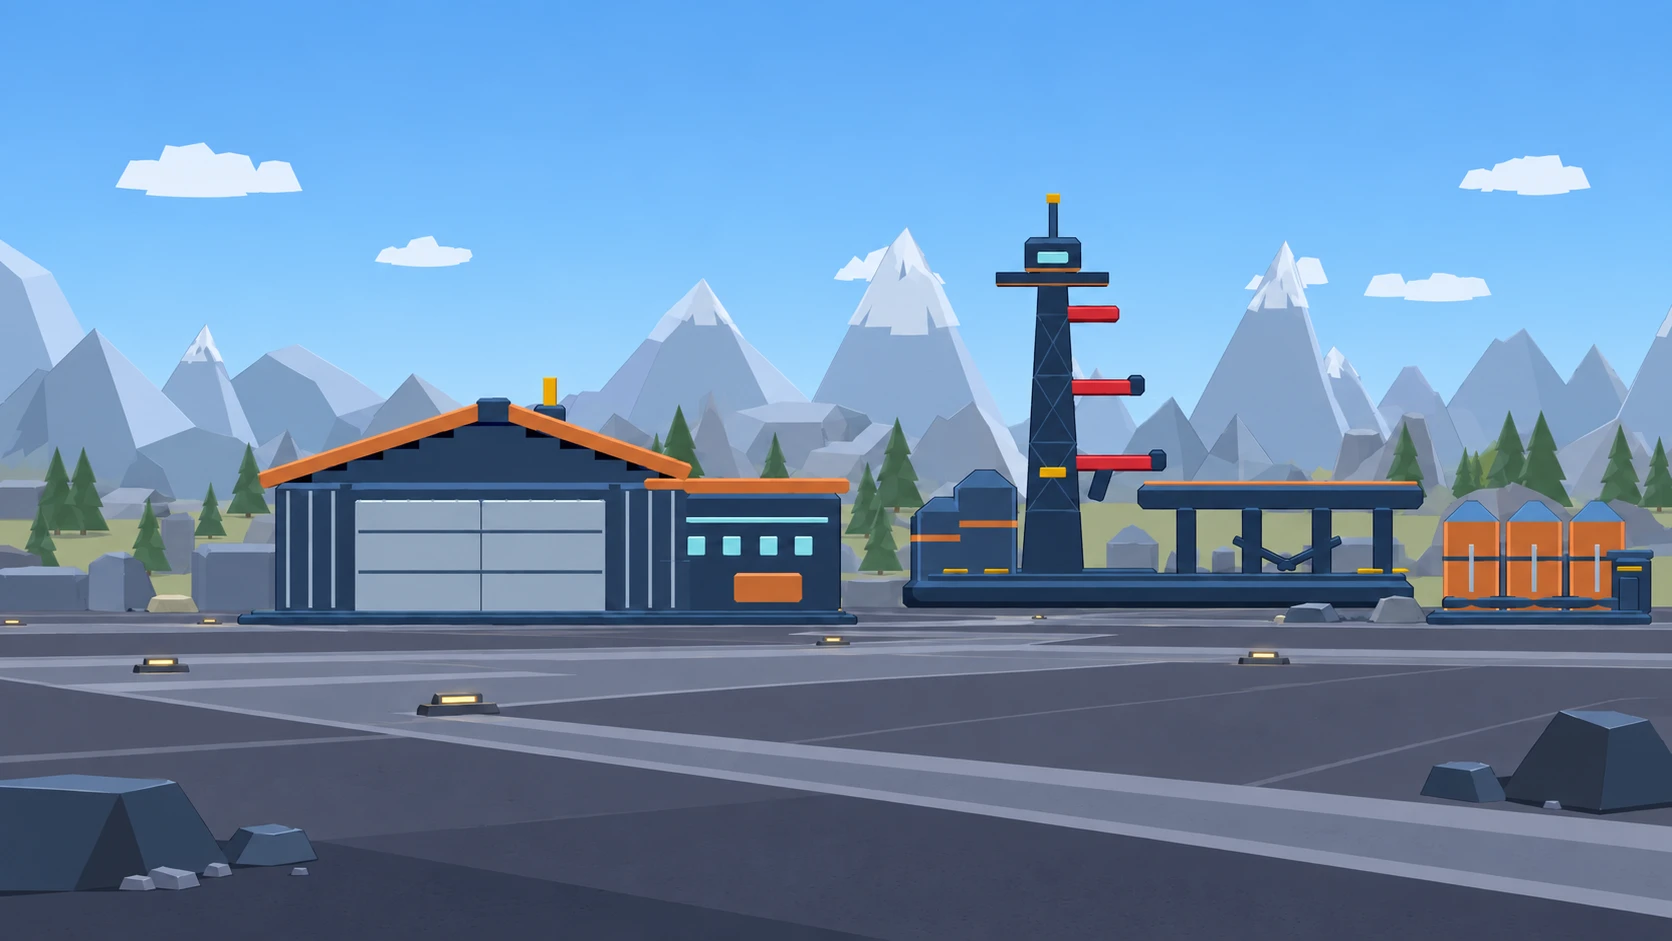
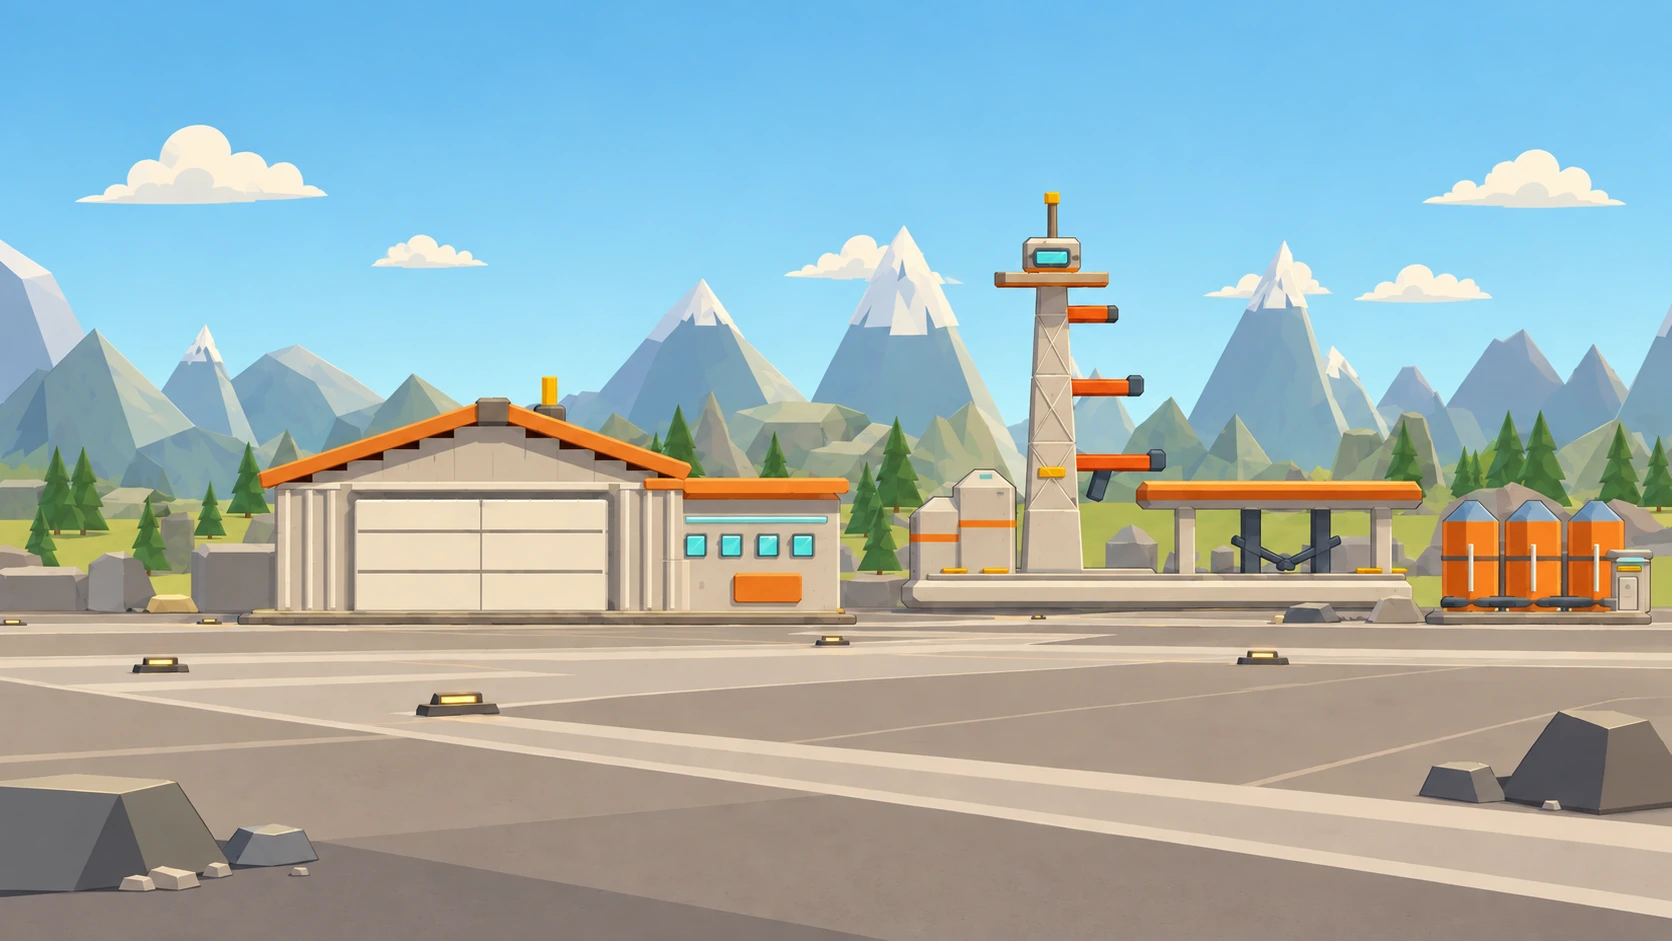
🚀🐺 ↝ [SSL-329]: Rebuild Instrument Hub control desk

diff --git a/web/components/game/screens/DownlinkControlDesk.module.css b/web/components/game/screens/DownlinkControlDesk.module.css
@@ -10,28 +10,28 @@
   grid-template-rows: minmax(0, 1fr) auto;
   overflow: hidden;
   padding: 12px 16px 16px;
-  color: var(--ln-text);
-  border: 1px solid var(--ln-hairline-strong);
+  color: var(--ln-blueprint-ink);
+  border: 1px solid var(--ln-blueprint-line-strong);
   border-radius: 4px 4px 12px 12px;
-  background: var(--ln-panel);
-  box-shadow: inset 0 2px 0 color-mix(in srgb, var(--ln-text) 7%, transparent), 0 16px 24px color-mix(in srgb, var(--ln-void) 74%, transparent);
+  background: var(--ln-blueprint-paper-2);
+  box-shadow: inset 0 2px 0 var(--ln-blueprint-paper), 0 16px 24px color-mix(in srgb, var(--ln-purple-depth) 74%, transparent);
 }
 
 .upperDeck { min-height: 0; display: grid; grid-template-columns: minmax(168px, 22%) minmax(0, 1fr); gap: 12px; }
-.packetRack { min-height: 0; display: flex; flex-direction: column; padding: 12px; border: 1px solid var(--ln-hairline); border-radius: 6px; background: var(--ln-void); }
-.rackHead { display: flex; align-items: center; justify-content: space-between; padding-bottom: 8px; border-bottom: 1px solid var(--ln-divider); color: var(--ln-cyan); font: 800 10px/1 var(--ln-font-display); letter-spacing: .14em; }
+.packetRack { min-height: 0; display: flex; flex-direction: column; padding: 12px; border: 1px solid var(--ln-blueprint-line-strong); border-radius: 6px; background: var(--ln-blueprint-paper); }
+.rackHead { display: flex; align-items: center; justify-content: space-between; padding-bottom: 8px; border-bottom: 1px solid var(--ln-blueprint-line-strong); color: var(--ln-blueprint-blue); font: 800 10px/1 var(--ln-font-display); letter-spacing: .14em; }
 .rackHead strong { color: var(--ln-ok); font-family: var(--ln-font-mono); }
 .packetList { min-height: 0; margin-top: 8px; overflow: auto; display: flex; flex-direction: column; gap: 4px; }
 .packet,
-.packetActive { min-height: 32px; display: grid; grid-template-columns: 28px 1fr; align-items: center; gap: 8px; padding: 4px 8px; border: 1px solid var(--ln-hairline); border-radius: 4px; background: transparent; color: var(--ln-text-dim); text-align: left; cursor: pointer; }
-.packetActive { border-color: var(--ln-cyan-border); background: var(--ln-cyan-soft); color: var(--ln-text); }
-.packet span { color: var(--ln-text-muted); font: 700 9px var(--ln-font-mono); }
-.packetActive span { color: var(--ln-cyan); font: 700 9px var(--ln-font-mono); }
+.packetActive { min-height: 32px; display: grid; grid-template-columns: 28px 1fr; align-items: center; gap: 8px; padding: 4px 8px; border: 1px solid var(--ln-blueprint-line-strong); border-radius: 4px; background: transparent; color: var(--ln-blueprint-ink); text-align: left; cursor: pointer; }
+.packetActive { border-color: var(--ln-blueprint-blue); background: color-mix(in srgb, var(--ln-cyan) 18%, var(--ln-blueprint-paper)); color: var(--ln-blueprint-ink); }
+.packet span { color: color-mix(in srgb, var(--ln-blueprint-ink) 64%, transparent); font: 700 9px var(--ln-font-mono); }
+.packetActive span { color: var(--ln-blueprint-blue); font: 700 9px var(--ln-font-mono); }
 .packet strong,
 .packetActive strong { overflow: hidden; text-overflow: ellipsis; font: 800 11px var(--ln-font-display); white-space: nowrap; }
-.standby { margin: auto 0; color: var(--ln-text-muted); font: 700 10px/1.5 var(--ln-font-mono); letter-spacing: .08em; }
+.standby { margin: auto 0; color: color-mix(in srgb, var(--ln-blueprint-ink) 64%, transparent); font: 700 10px/1.5 var(--ln-font-mono); letter-spacing: .08em; }
 
-.scope { min-height: 0; display: grid; grid-template-rows: auto minmax(0, 1fr); padding: 12px; border: 1px solid var(--ln-cyan-border); border-radius: 6px; background: color-mix(in srgb, var(--ln-cyan) 7%, var(--ln-void)); }
+.scope { min-height: 0; display: grid; grid-template-rows: auto minmax(0, 1fr); padding: 12px; border: 1px solid var(--ln-cyan-border); border-radius: 6px; background: color-mix(in srgb, var(--ln-cyan) 7%, var(--ln-purple-depth)); }
 .scopeHead { display: flex; align-items: flex-start; justify-content: space-between; gap: 16px; padding-bottom: 8px; }
 .scopeHead span { color: var(--ln-cyan); font: 800 9px/1 var(--ln-font-display); letter-spacing: .14em; }
 .scopeHead h2 { margin: 4px 0 0; color: var(--ln-text); font: 800 18px/1 var(--ln-font-display); }
@@ -41,7 +41,7 @@
 .ready i,
 .linked i { width: 6px; height: 6px; border-radius: 50%; background: currentColor; box-shadow: var(--ln-glow-ok); }
 .linked { border-color: var(--ln-hairline-strong); color: var(--ln-text-dim); }
-.scopeScreen { position: relative; min-height: 72px; overflow: hidden; border: 1px solid var(--ln-hairline); border-radius: 4px; background: color-mix(in srgb, var(--ln-cyan) 10%, var(--ln-void)); }
+.scopeScreen { position: relative; min-height: 72px; overflow: hidden; border: 1px solid var(--ln-cyan-border); border-radius: 4px; background: color-mix(in srgb, var(--ln-cyan) 6%, var(--ln-purple-depth)); }
 .scopeScreen svg { width: 100%; height: 100%; display: block; }
 .axis { fill: none; stroke: var(--ln-hairline); stroke-width: 1; }
 .traceGhost { fill: none; stroke: color-mix(in srgb, var(--ln-cyan) 30%, transparent); stroke-width: 2; }
@@ -53,11 +53,11 @@
 .controlRail label,
 .arm,
 .armed,
-.inspect { min-width: 0; min-height: 48px; display: grid; grid-template-columns: 1fr auto; align-items: center; gap: 8px; padding: 8px 12px; border: 1px solid var(--ln-hairline); border-radius: 6px; background: var(--ln-void); color: var(--ln-text-dim); }
+.inspect { min-width: 0; min-height: 48px; display: grid; grid-template-columns: 1fr auto; align-items: center; gap: 8px; padding: 8px 12px; border: 1px solid var(--ln-blueprint-line-strong); border-radius: 6px; background: var(--ln-blueprint-paper); color: var(--ln-blueprint-ink); }
 .controlRail label span,
 .arm span,
 .armed span,
-.inspect span { grid-column: 1 / -1; color: var(--ln-cyan); font: 800 9px/1 var(--ln-font-display); letter-spacing: .14em; }
+.inspect span { grid-column: 1 / -1; color: var(--ln-blueprint-blue); font: 800 9px/1 var(--ln-font-display); letter-spacing: .14em; }
 .controlRail label b,
 .arm b,
 .armed b,
@@ -66,8 +66,9 @@
 .arm,
 .armed,
 .inspect { cursor: pointer; text-align: left; }
-.armed { border-color: var(--ln-cyan-border); background: var(--ln-cyan-soft); color: var(--ln-text); }
-.inspect { border-color: var(--ln-cyan-border); background: color-mix(in srgb, var(--ln-cyan) 12%, var(--ln-void)); color: var(--ln-text); }
+.armed { border-color: var(--ln-blueprint-blue); background: color-mix(in srgb, var(--ln-cyan) 18%, var(--ln-blueprint-paper)); color: var(--ln-blueprint-ink); }
+.inspect { border-color: var(--ln-cyan); background: var(--ln-cyan); color: var(--ln-text-on-cyan); }
+.inspect span { color: var(--ln-text-on-cyan); }
 .inspect:disabled { opacity: .46; cursor: not-allowed; }
 
 @media (max-height: 520px) and (orientation: landscape) {

diff --git a/web/components/game/screens/ControlRoomBackdrop.module.css b/web/components/game/screens/ControlRoomBackdrop.module.css
@@ -2,15 +2,15 @@
   position: absolute;
   inset: 0;
   overflow: hidden;
-  background: var(--ln-void);
+  background: var(--ln-purple-depth);
 }
 
 .ceiling {
   position: absolute;
   inset: 0 0 auto;
   height: 64px;
-  background: var(--ln-panel);
-  border-bottom: 1px solid var(--ln-hairline);
+  background: color-mix(in srgb, var(--ln-purple-depth) 84%, var(--ln-void));
+  border-bottom: 1px solid var(--ln-cyan-border);
   pointer-events: none;
 }
 
@@ -22,12 +22,12 @@
   height: 46%;
   min-height: 208px;
   padding: 12px 12px 16px;
-  border: 1px solid var(--ln-hairline-strong);
+  border: 1px solid var(--ln-blueprint-line-strong);
   border-radius: 8px 8px 4px 4px;
-  background: color-mix(in srgb, var(--ln-text-dim) 56%, var(--ln-panel));
+  background: var(--ln-blueprint-paper-2);
   box-shadow:
-    inset 0 2px 0 color-mix(in srgb, var(--ln-text) 20%, transparent),
-    0 16px 24px color-mix(in srgb, var(--ln-void) 76%, transparent);
+    inset 0 2px 0 var(--ln-blueprint-paper),
+    0 16px 24px color-mix(in srgb, var(--ln-purple-depth) 76%, transparent);
 }
 
 .bezel::before,
@@ -37,7 +37,7 @@
   top: 12px;
   bottom: 16px;
   width: 4px;
-  background: color-mix(in srgb, var(--ln-void) 48%, transparent);
+  background: color-mix(in srgb, var(--ln-blueprint-ink) 36%, transparent);
   z-index: 5;
 }
 
@@ -49,9 +49,9 @@
   width: 100%;
   height: 100%;
   overflow: hidden;
-  border: 4px solid color-mix(in srgb, var(--ln-void) 72%, var(--ln-panel-2));
+  border: 4px solid var(--ln-blueprint-ink);
   border-radius: 4px;
-  background: var(--ln-void);
+  background: var(--ln-blueprint-ink);
 }
 
 .courtyardPlate {
@@ -71,10 +71,10 @@
   top: calc(64px + 46% - 4px);
   height: 24px;
   z-index: 5;
-  border: 1px solid var(--ln-hairline-strong);
+  border: 1px solid var(--ln-blueprint-line-strong);
   border-radius: 4px;
-  background: color-mix(in srgb, var(--ln-text-dim) 42%, var(--ln-panel));
-  box-shadow: 0 8px 0 var(--ln-void);
+  background: var(--ln-blueprint-paper-2);
+  box-shadow: 0 8px 0 color-mix(in srgb, var(--ln-purple-depth) 84%, var(--ln-void));
 }
 
 .roomSideLeft,
@@ -83,8 +83,8 @@
   top: 64px;
   bottom: 0;
   width: 24px;
-  background: var(--ln-panel);
-  border-color: var(--ln-hairline);
+  background: var(--ln-purple-depth);
+  border-color: var(--ln-cyan-border);
   z-index: 0;
 }
 
@@ -97,8 +97,8 @@
   bottom: 12px;
   z-index: 4;
   padding: 4px 8px;
-  background: color-mix(in srgb, var(--ln-void) 78%, transparent);
-  color: var(--ln-cyan);
+  background: color-mix(in srgb, var(--ln-blueprint-paper) 88%, transparent);
+  color: var(--ln-blueprint-ink);
   font: 800 10px/1 var(--ln-font-display);
   letter-spacing: 0.16em;
   text-transform: uppercase;
@@ -109,7 +109,7 @@
   inset: 4px;
   z-index: 4;
   pointer-events: none;
-  border-top: 1px solid color-mix(in srgb, var(--ln-text) 24%, transparent);
+  border-top: 1px solid color-mix(in srgb, var(--ln-blueprint-paper) 64%, transparent);
 }
 
 @media (max-height: 520px) and (orientation: landscape) {

diff --git a/web/app/game/control-room-preview/page.module.css b/web/app/game/control-room-preview/page.module.css
@@ -1,11 +1,11 @@
-.page { position: relative; width: 100%; min-height: 100dvh; overflow: hidden; background: var(--ln-void); color: var(--ln-text); }
-.previewControls { margin-top: auto; padding-top: 8px; border-top: 1px solid var(--ln-divider); }
-.previewControls p { margin: 0 0 8px; color: var(--ln-text-muted); font: 800 9px/1 var(--ln-font-display); letter-spacing: .12em; }
+.page { --ln-shell: var(--ln-purple-depth); position: relative; width: 100%; min-height: 100dvh; overflow: hidden; background: var(--ln-purple-depth); color: var(--ln-text); }
+.previewControls { margin-top: auto; padding-top: 8px; border-top: 1px solid var(--ln-blueprint-line-strong); }
+.previewControls p { margin: 0 0 8px; color: var(--ln-blueprint-ink); font: 800 9px/1 var(--ln-font-display); letter-spacing: .12em; }
 .toggles { display: flex; flex-wrap: wrap; gap: 4px; }
 .toggle,
 .toggleOn { min-height: 32px; padding: 4px 8px; border-radius: 4px; font: 800 9px/1 var(--ln-font-display); letter-spacing: .1em; cursor: pointer; }
-.toggle { border: 1px solid var(--ln-hairline); background: transparent; color: var(--ln-text-muted); }
-.toggleOn { border: 1px solid var(--ln-cyan-border); background: var(--ln-cyan-soft); color: var(--ln-cyan); }
+.toggle { border: 1px solid var(--ln-blueprint-line-strong); background: var(--ln-blueprint-paper); color: var(--ln-blueprint-ink); }
+.toggleOn { border: 1px solid var(--ln-blueprint-blue); background: color-mix(in srgb, var(--ln-cyan) 18%, var(--ln-blueprint-paper)); color: var(--ln-blueprint-blue); }
 
 @media (max-height: 520px) and (orientation: landscape) {
   .previewControls p { display: none; }

diff --git a/web/cypress/e2e/features/instrument-hub.cy.ts b/web/cypress/e2e/features/instrument-hub.cy.ts
@@ -104,7 +104,7 @@ function visitHub() {
     },
   }
 
-  cy.visit('/game', {
+  cy.visit('/game?preset=ui-instrument-hub', {
     onBeforeLoad(win) {
       win.localStorage.clear()
       win.localStorage.setItem(GUEST_KEY, GUEST)
@@ -118,12 +118,10 @@ function visitHub() {
 }
 
 describe('instrument hub orbit downlink', () => {
-  it('pings the orbit widget and opens the inspector from the dedicated hub', () => {
+  it('opens the inspector from the dedicated instrument hub route', () => {
     visitHub()
-    cy.get('[data-testid="hub-orbital-network"]', { timeout: 15_000 }).should('be.visible')
-    cy.get('[data-testid="hub-orbital-ping"]', { timeout: 15_000 }).should('exist')
-    cy.get('[data-testid="hub-orbital-network"]').click()
     cy.get('[data-testid="instrument-hub-screen"]', { timeout: 10_000 }).should('be.visible')
+    cy.get('[data-testid="instrument-signal"]', { timeout: 15_000 }).should('exist')
     cy.get('[data-testid="instrument-signal-inspect"]').first().click()
     cy.get('[data-testid="tess-discovery-screen"], [data-testid="asteroid-discovery-screen"]', { timeout: 10_000 }).should('be.visible')
   })

diff --git a/web/components/game/screens/InstrumentHubScreen.module.css b/web/components/game/screens/InstrumentHubScreen.module.css
@@ -1,3 +1,3 @@
-.screen { position: relative; width: 100%; height: 100%; overflow: hidden; }
-.frame { position: absolute; inset: 0; }
+.screen { --ln-shell: var(--ln-purple-depth); position: relative; width: 100%; height: 100%; overflow: hidden; }
+.screen > .frame.frame { position: absolute; inset: 0; height: auto; z-index: 8; }
 .srOnly { position: absolute; width: 1px; height: 1px; padding: 0; margin: -1px; overflow: hidden; clip: rect(0, 0, 0, 0); white-space: nowrap; border: 0; }
